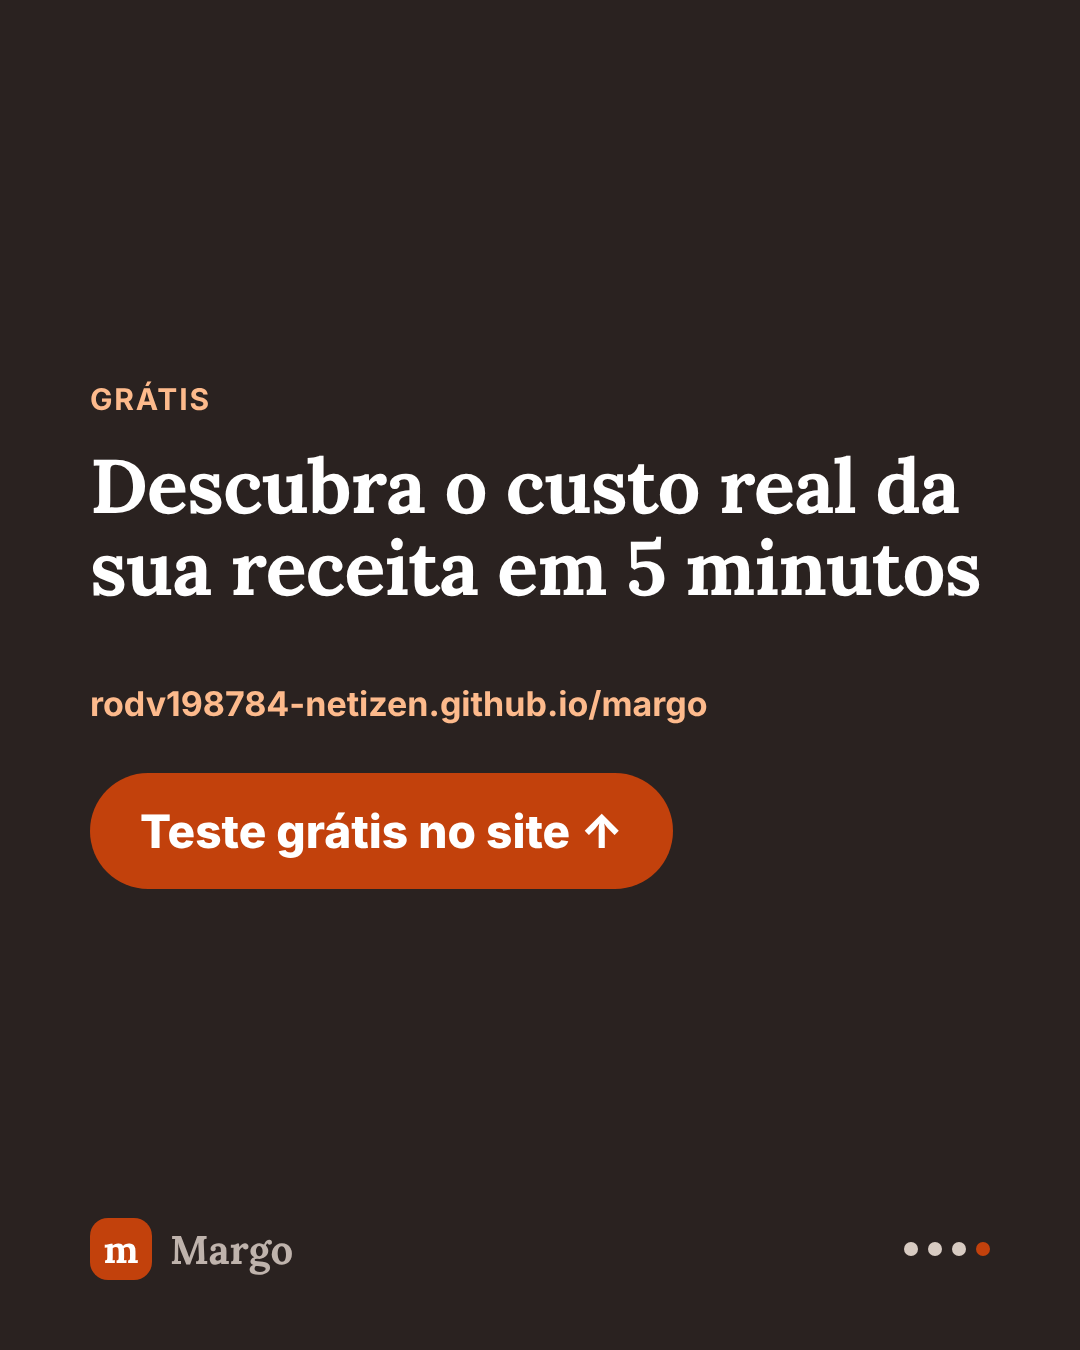
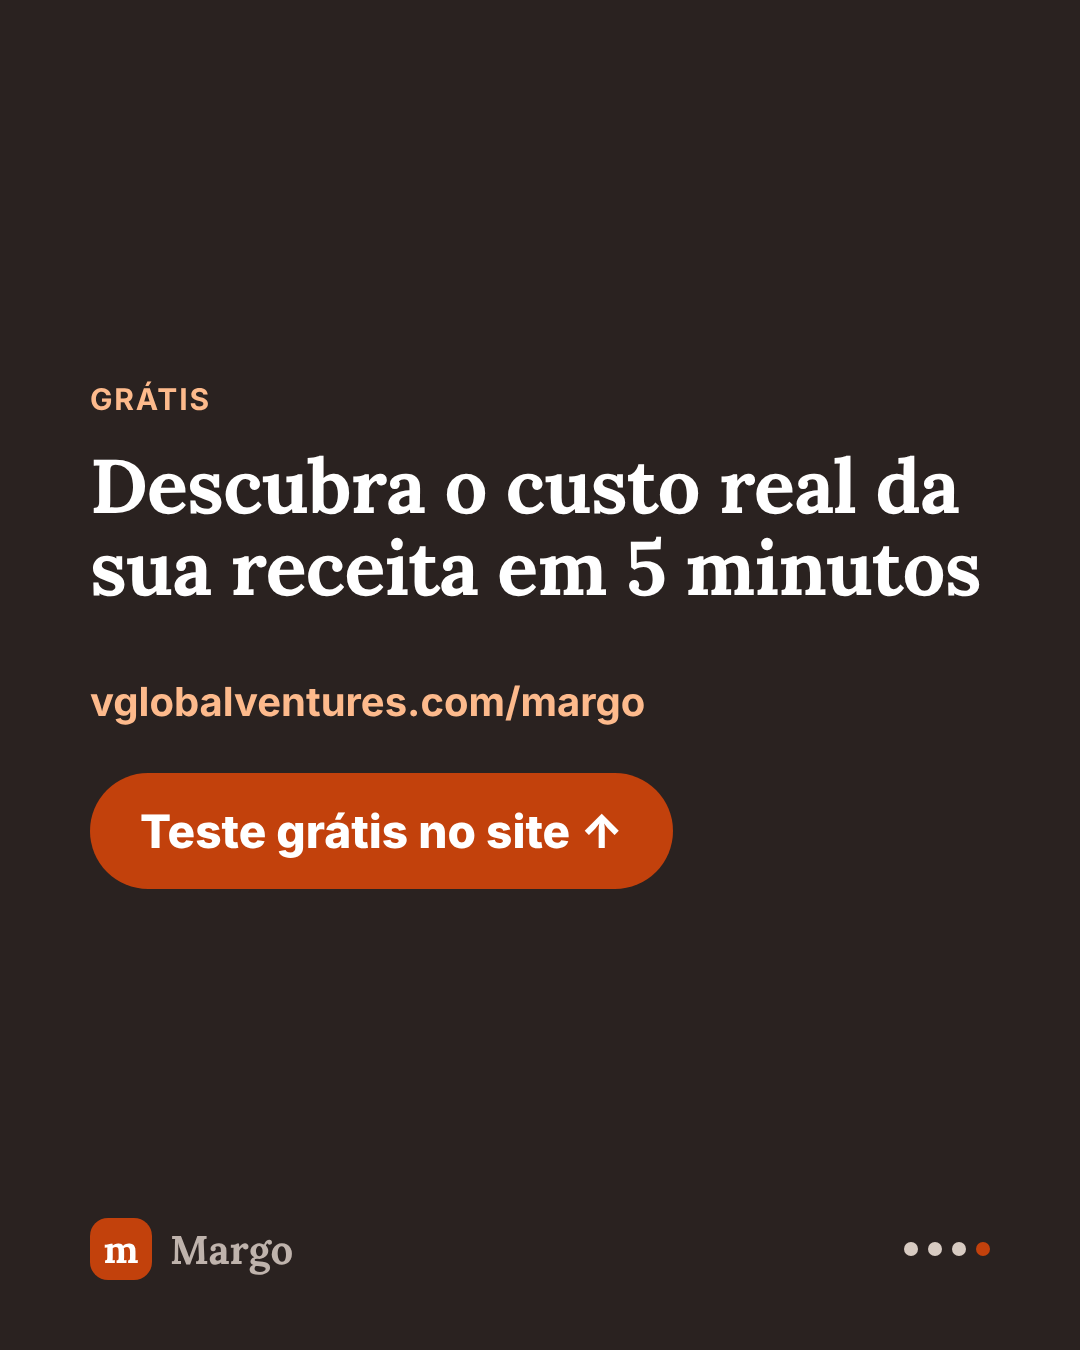
Endereço da marca: vglobalventures.com/margo nos posts e no rodapé dos orçamentos
Claude-Session: https://claude.ai/code/session_01TTuqbZYNN8yWphtzs7gAKc

Changed region(s): [[0.0917, 0.4978, 0.6722, 0.56]]

diff --git a/app/index.html b/app/index.html
@@ -208,7 +208,7 @@ const esc=s=>String(s??"").replace(/[&<>"']/g,c=>({"&":"&amp;","<":"&lt;",">":"&
 
 /* ===================== plan ===================== */
 const FREE_LIMIT=5;
-const SITE="https://rodv198784-netizen.github.io/margo/";
+const SITE="https://vglobalventures.com/margo/";
 function isPro(){try{return !!localStorage.getItem("margo.pro");}catch(e){return false;}}
 function plansUrl(){return "../?lang="+S.lang+"#planos";}
 function upsell(){
